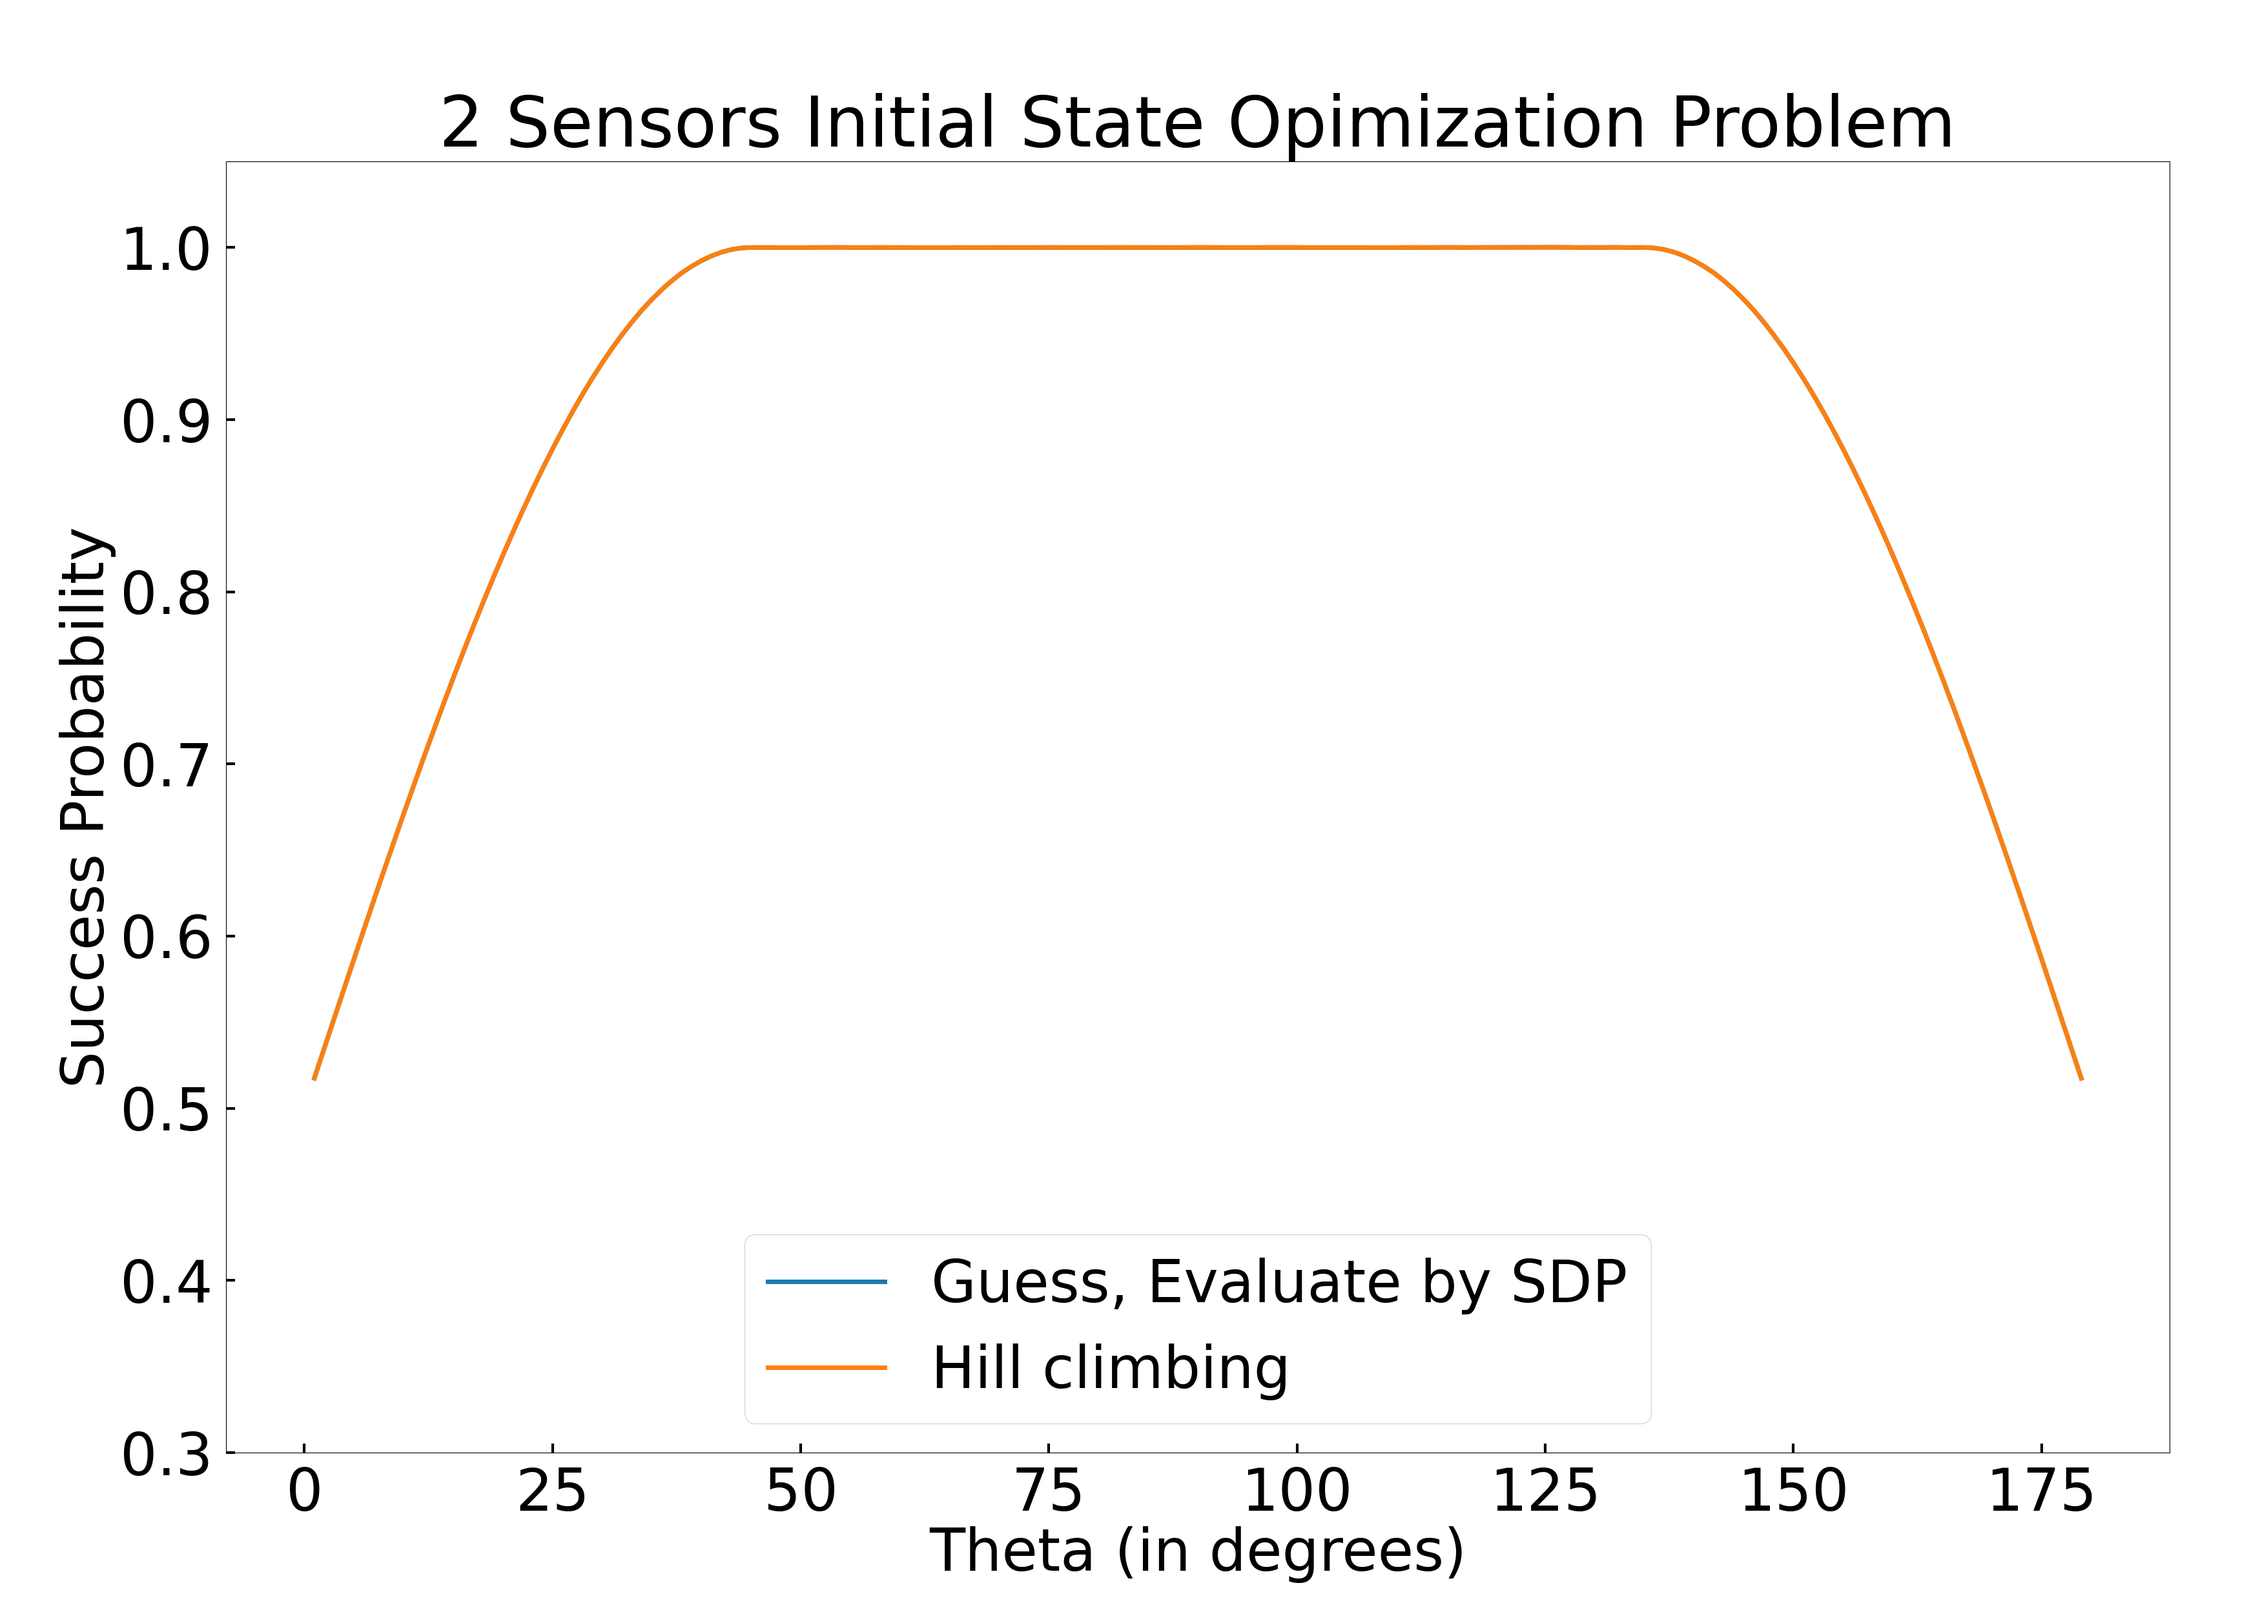
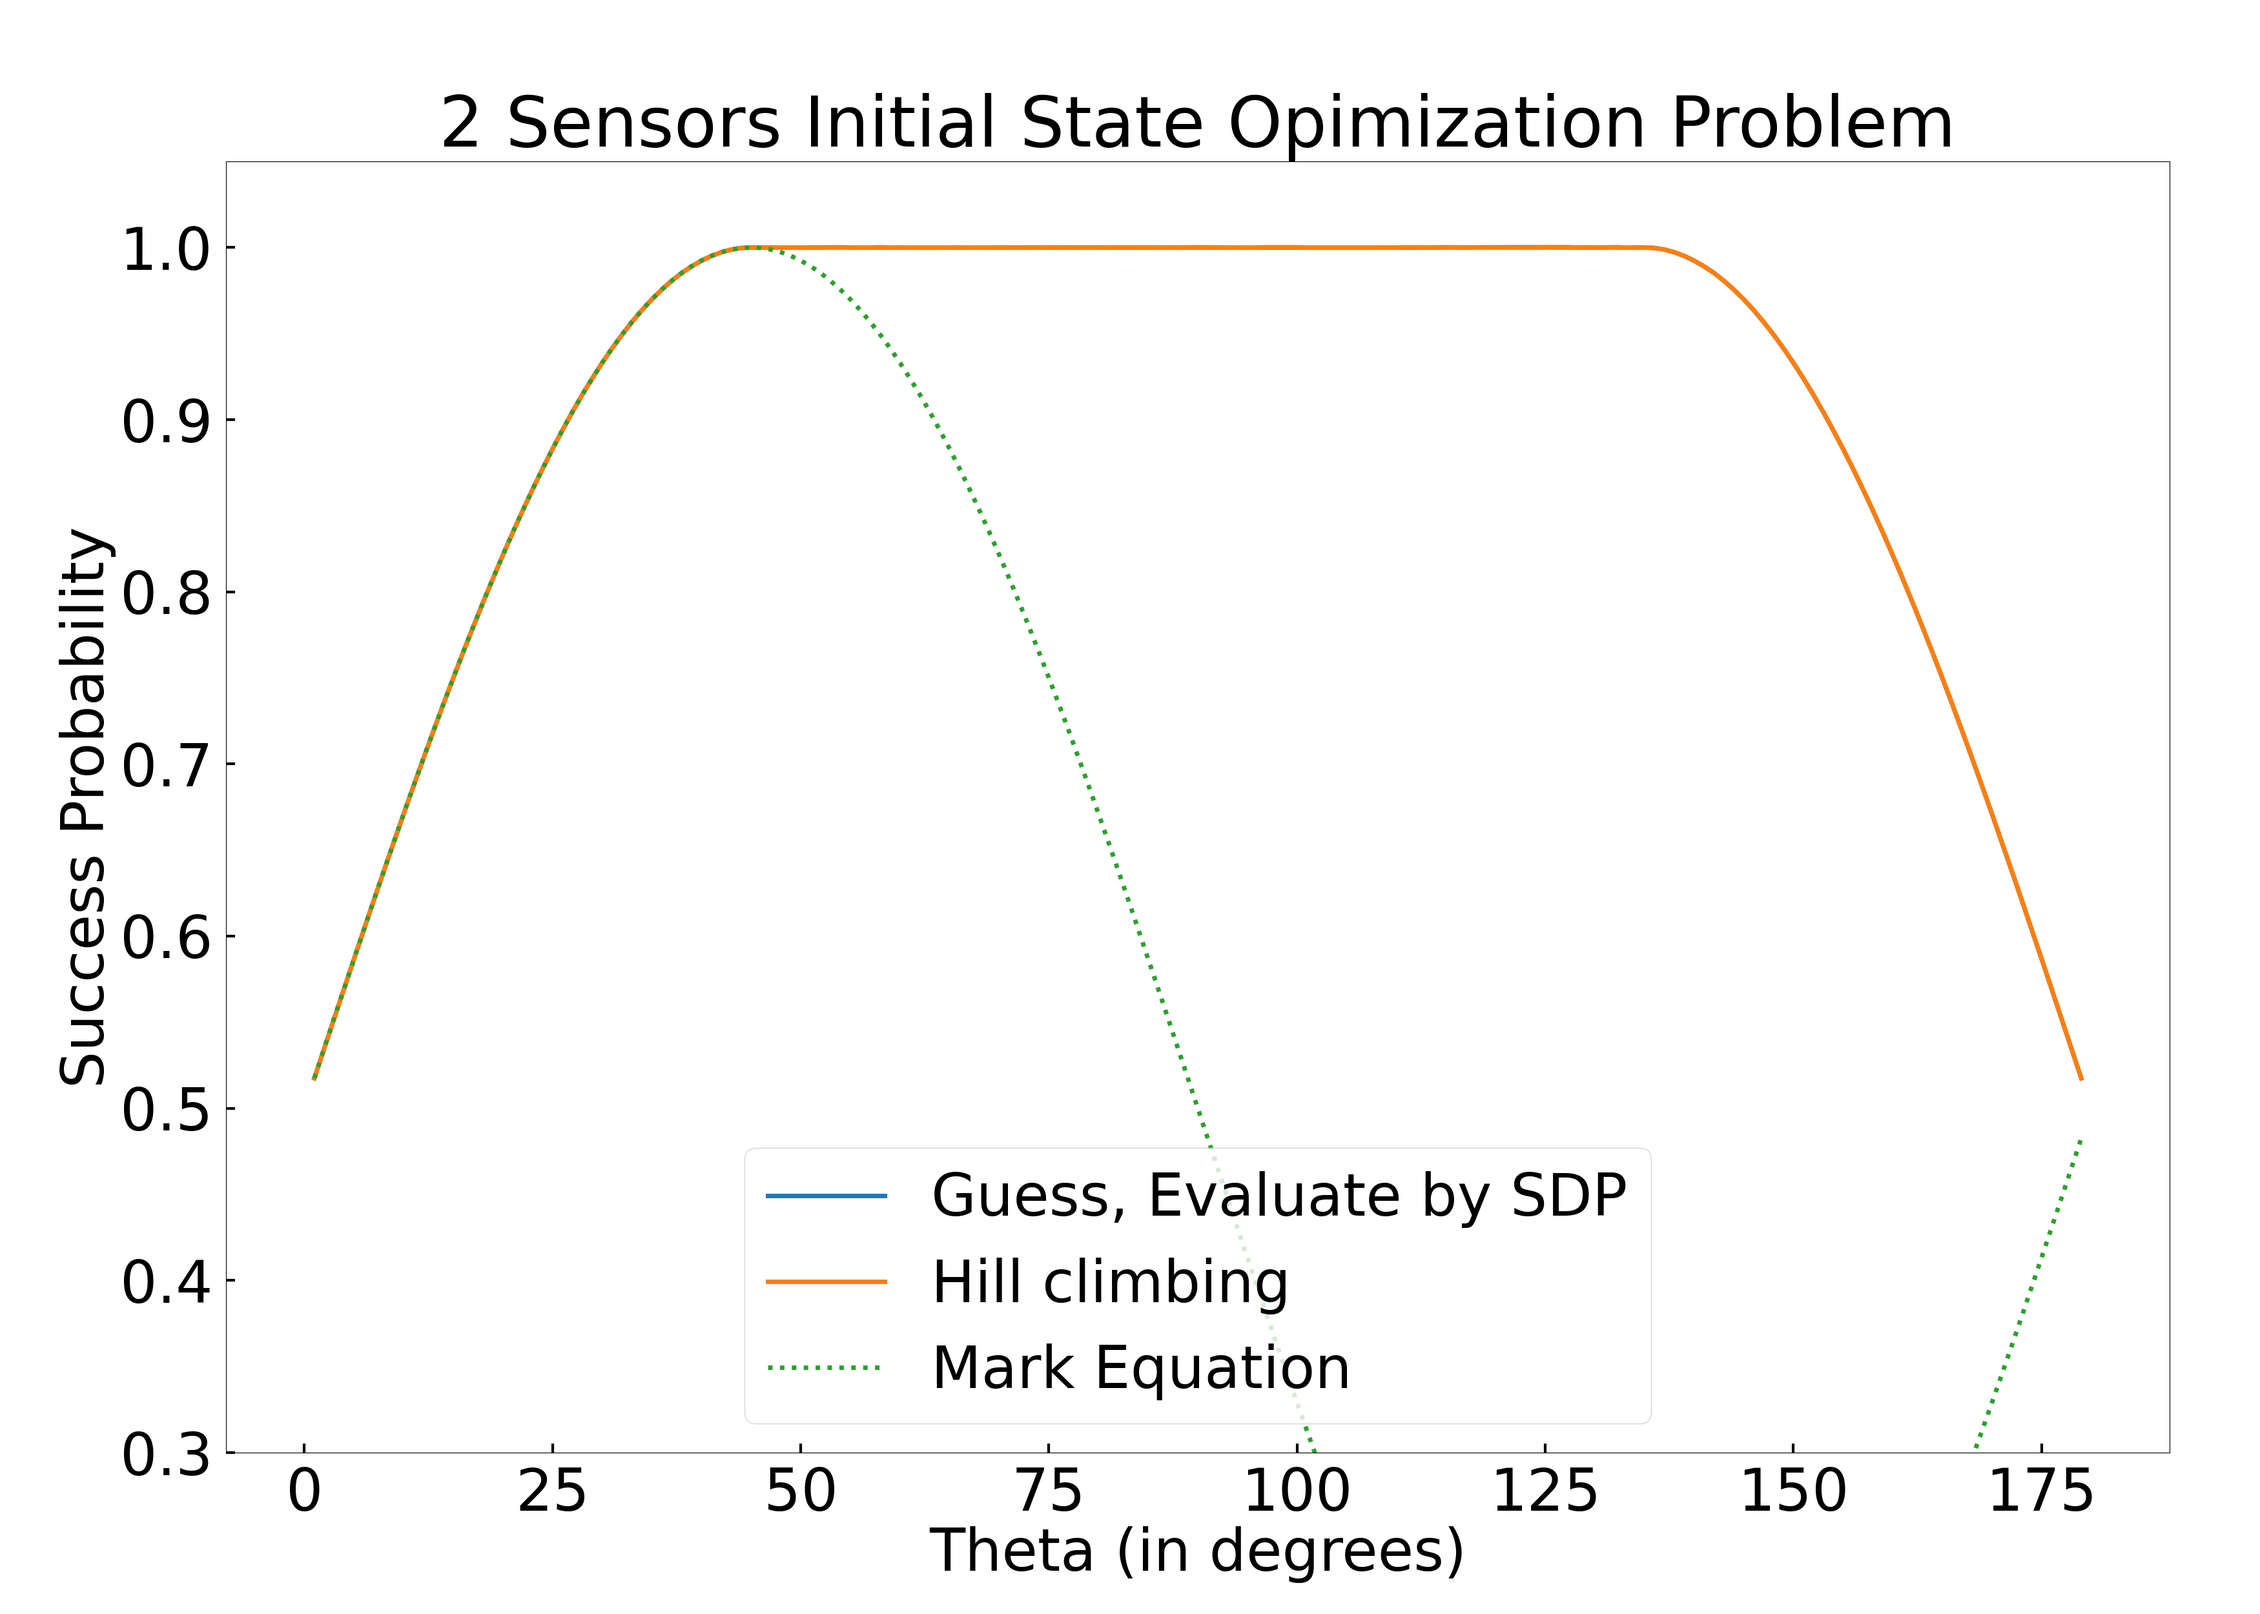
update

Changed region(s): [[0.4049, 0.7176, 0.7163, 0.8736]]

diff --git a/plot.py b/plot.py
@@ -172,6 +172,15 @@ def vary_startseed():
     Plot.vary_startseed(data, filename)
 
 
+def n_sensor_analytical(N: int, theta: float):
+    '''Equation 26 in https://arxiv.org/pdf/2210.17254.pdf
+    '''
+    RAD = 180 / np.pi
+    term2 = 0.5 * (N - 2) * (1 - np.cos(2*theta/RAD))
+    term3 = np.sqrt(N-1) * np.abs(np.sin(2*theta/RAD))
+    return 1/N * (1 + term2 + term3)
+
+
 # min error discrimination, 2 sensors, varying the theta of the unitary operator
 def special_u_2sensor(draw: bool):
     '''
@@ -200,10 +209,16 @@ def special_u_2sensor(draw: bool):
     if draw is False:
         return y_guess, y_hillclimb
 
+    RAD = 180 / np.pi
+    y_mark = []
+    for x in X:
+        y_mark.append(0.5 + 0.5 * np.sin(2*x/RAD))
+
     fig, ax = plt.subplots(1, 1, figsize=(35, 25))
     fig.subplots_adjust(left=0.1, right=0.96, top=0.9, bottom=0.1)
     ax.plot(X, y_guess, label='Guess, Evaluate by SDP')
     ax.plot(X, y_hillclimb, label='Hill climbing')
+    ax.plot(X, y_mark, label='Mark Equation', linestyle=':')
     ax.legend(loc='lower center')
     ax.set_xlabel('Theta (in degrees)')
     ax.set_ylabel('Success Probability')
@@ -213,6 +228,7 @@ def special_u_2sensor(draw: bool):
     ax.tick_params(axis='y', direction='in', length=10, width=3, pad=15)
     filename = 'result/6.3.2022/varying_theta_2sensors'
     fig.savefig(filename)
+    return -1, -1
 
 
 # min error discrimination, 3 sensors, varying the theta of the unitary operator
@@ -274,6 +290,7 @@ def special_u_3sensor(draw: bool):
     ax.tick_params(axis='y', direction='in', length=10, width=3, pad=15)
     filename = 'result/4.6.2022/varying_theta_3sensors'
     fig.savefig(filename)
+    return -1, -1
 
 
 # min error discrimination, 4 sensors, varying the theta of the unitary operator
@@ -316,6 +333,10 @@ def special_u_4sensor(draw: bool):
     for theta in range(1, 180):
         y_hillclimb.append(max(y_hillclimb0[(theta, 0)], y_hillclimb1[(theta, 1)]))
     
+    y_analitical = []
+    for theta in range(1, 180):
+        y_analitical.append(n_sensor_analytical(4, theta))
+
     if draw is False:
         return y_guess, y_hillclimb
 
@@ -323,6 +344,7 @@ def special_u_4sensor(draw: bool):
     fig.subplots_adjust(left=0.1, right=0.96, top=0.9, bottom=0.1)
     ax.plot(X, y_guess, label='Guess, Evaluate by SDP')
     ax.plot(X, y_hillclimb, label='Hill climbing')
+    ax.plot(X, y_analitical, label='Analytical', linestyle=':')
     ax.legend()
     ax.set_xlabel('Theta (in degrees)')
     ax.set_ylabel('Success Probability')
@@ -332,6 +354,8 @@ def special_u_4sensor(draw: bool):
     ax.tick_params(axis='y', direction='in', length=10, width=3, pad=15)
     filename = 'result/5.1.2022/varying_theta_4sensors'
     fig.savefig(filename)
+    return -1, -1
+
 
 # min error discrimination, 5 sensors, varying the theta of the unitary operator
 def special_u_5sensor(draw: bool):
@@ -1012,10 +1036,10 @@ if __name__ == '__main__':
     # vary_numsensors()
     # vary_startseed()
 
-    # draw = False
+    draw = True
     # guess_2s, hillclimb_2s = special_u_2sensor(draw)
     # guess_3s, hillclimb_3s = special_u_3sensor(draw)
-    # guess_4s, hillclimb_4s = special_u_4sensor(draw)
+    guess_4s, hillclimb_4s = special_u_4sensor(draw)
     # guess_5s, hillclimb_5s = special_u_5sensor(draw)
     # special_u_allsensors(guess_2s, hillclimb_2s, guess_3s, hillclimb_3s, guess_4s, hillclimb_4s, guess_5s, hillclimb_5s)
     # special_u_2()
@@ -1023,7 +1047,7 @@ if __name__ == '__main__':
 
     # print_results()
 
-    upperbound()
+    # upperbound()
 
 
     # hillclimb_bugfix()

diff --git a/quantum_state.py b/quantum_state.py
@@ -20,7 +20,7 @@ class QuantumState:
         '''
         self._num_sensor = num_sensor
         self._state_vector = state_vector
-        self._density_matrix = None
+        self._density_matrix = np.outer(self._state_vector, np.conj(self._state_vector)) if state_vector is not None else None
 
     @property
     def num_sensor(self):
@@ -33,13 +33,10 @@ class QuantumState:
     @state_vector.setter
     def state_vector(self, vector: np.array):
         self._state_vector = vector
+        self._density_matrix = np.outer(self._state_vector, np.conj(self._state_vector))
 
     @property
     def density_matrix(self):
-        if self._density_matrix is None:   # BUG is this a bug?
-            if self._state_vector is None:
-                raise Exception('state_vector is None!')
-            self._density_matrix = np.outer(self._state_vector, np.conj(self._state_vector))  # don't forget the conjugate ...
         return self._density_matrix
 
     def check_state(self):
@@ -75,6 +72,7 @@ class QuantumState:
         if seed is not None:
             np.random.seed(seed)
         self._state_vector = random_state(self.num_sensor)
+        self._density_matrix = np.outer(self._state_vector, np.conj(self._state_vector))
 
     def init_random_state_realnumber(self, seed: int = None):
         '''init a random quantum state with real number amplitudes'''
@@ -83,6 +81,7 @@ class QuantumState:
         self._state_vector = np.random.random(2**self.num_sensor)
         squared_sum = np.sum(np.power(self._state_vector, 2))
         self._state_vector /= np.sqrt(squared_sum)
+        self._density_matrix = np.outer(self._state_vector, np.conj(self._state_vector))
 
     def init_random_state_realnumber_partition(self, seed: int, partitions: list, varying: int):
         '''init a random quantum state with real number amplitudes
@@ -98,6 +97,7 @@ class QuantumState:
                     self._state_vector[j] = fixed
         squared_sum = np.sum(np.power(self._state_vector, 2))
         self._state_vector /= np.sqrt(squared_sum)
+        self._density_matrix = np.outer(self._state_vector, np.conj(self._state_vector))
 
     def evolve(self, operator: Operator):
         '''the evolution of a quantum state
@@ -108,6 +108,7 @@ class QuantumState:
         operator_dim = np.product(operator.input_dims()) # for N qubits, the input_dims() return (2, 2, ..., 2), N twos.
         if dim == operator_dim:
             self._state_vector = np.dot(operator._data, self._state_vector)
+            self._density_matrix = np.outer(self._state_vector, np.conj(self._state_vector))
         else:
             raise Exception('state_vector and operator dimension not equal')
 
@@ -153,3 +154,4 @@ class QuantumState:
                 imag = float(imag[:-1].strip())
                 statevector.append(complex(real, imag))
         self._state_vector = np.array(statevector)
+        self._density_matrix = np.outer(self._state_vector, np.conj(self._state_vector))

diff --git a/runner.py b/runner.py
@@ -65,26 +65,15 @@ if __name__ == '__main__':
     # base_args = ["-us", "2", "-m", "Genetic algorithm", "Guess", "-mi", "100", "-ps", "32"]
     # base_args = ["-us", "2", "-m", "Particle swarm", "Guess", "-mi", "100", "-ps", "32"]
 
-    base_args = ["-us", "2", "-m", "Theorem", "Hill climbing", "-mi", "100", "-rn", "True"]
+    base_args = ["-us", "2", "-m", "Hill climbing", "-mi", "100"]
 
-    # 5 sensors experiment, in case it crashes again
-    num_sensor  = 3
-    equal       = False
-    eval_metric = 'computational'  # 'min error' or 'unambiguous' or 'computational'
-    # output_dir  = 'result-tmp/'
-    output_dir  = 'result/tmp'
-    output_file = 'varying_theta_3sensors_computational'
-    # output_file = 'foo2'
-    thetas      = [i for i in range(51, 52, 100)]
+    num_sensor  = 2
+    equal       = True
+    eval_metric = 'min error'  # 'min error' or 'unambiguous' or 'computational'
+    output_dir  = 'result2/12.22.2022'
+    output_file = 'varying_theta_2sensors'
+    thetas      = [i for i in range(1, 180)]
     start_seed  = [0]
-
-    # num_sensor  = 2
-    # equal       = False
-    # eval_metric = 'min error'  # 'min error' or 'unambiguous'
-    # output_dir  = 'result/5.3.2022'
-    # output_file = 'varying_startseed_2sensor_minerror'
-    # thetas      = [1]
-    # start_seed  = [i for i in range(10)]
 
     ps = []
     tasks = []

diff --git a/input_output.py b/input_output.py
@@ -29,7 +29,7 @@ class Default:
     amp_step = 0.1            # initial amplitude step size
     decrease_rate = 0.96      # decrease rate for the step sizes
     realimag_neighbor = False # changing the real part and the imaginary part
-    random_neighbor = False   # random neighbor or predefined direction neighbor
+    random_neighbor = True   # random neighbor or predefined direction neighbor
 
     # below are for simulated annealing
     init_step = 0.1                  # initial step size

diff --git a/quantum_state_custombasis.py b/quantum_state_custombasis.py
@@ -55,7 +55,7 @@ class QuantumStateCustomBasis:
 
     @property
     def density_matrix(self):
-        if self._density_matrix is None:
+        if self._density_matrix is None:  # BUG?
             if self._state_vector is None:
                 raise Exception('state_vector is None!')
             self._density_matrix = np.outer(self._state_vector, np.conj(self._state_vector))  # don't forget the conjugate ...
